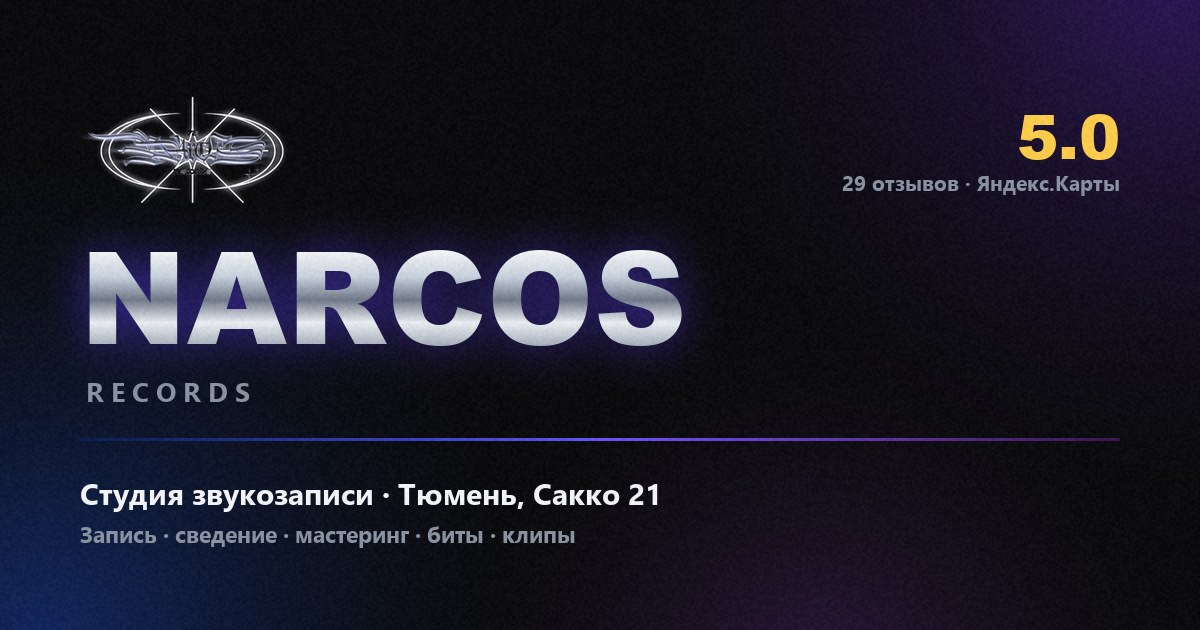
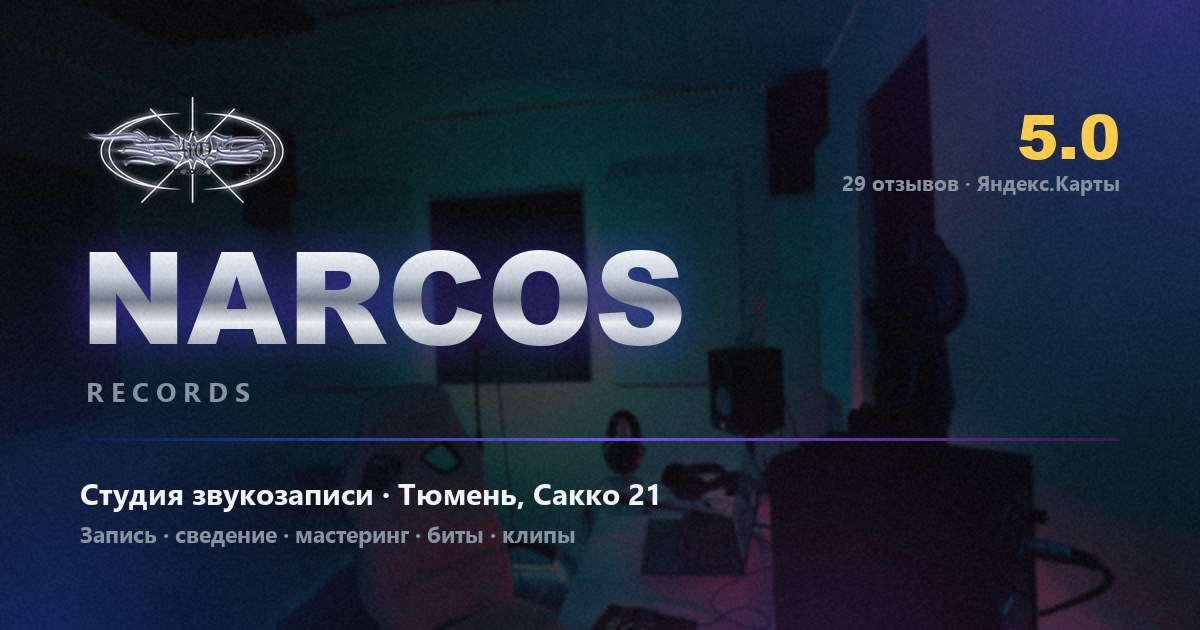
Живые фото студии вместо заглушек
Пять кадров от студии разложены по слотам:
- общий план зала — фон первого экрана
- микрофон Neumann — блок «О студии», вертикаль 4:5
- звуковая карта, наушники и сессия в Ableton — галерея, квадраты

Галерею сократил с шести слотов до трёх по числу фото и перевёл
на квадрат: два кадра исходно 1:1, третий вертикальный — резать
его в 4:3 значило потерять половину. На телефоне галерея в одну
колонку, кадры мелкие в две не читались.

Исходники были 3000–6240 px и по 8–18 МБ. Кроп под соотношение
слота, ресайз, unsharp после уменьшения, сжатие — все пять весят
1 МБ, фон первого экрана 262 КБ.

Обложка превью ссылки теперь на реальном кадре студии.

Фото команды всё ещё ждём, там заглушки.

diff --git a/index.html b/index.html
@@ -137,7 +137,7 @@
 <section class="hero" aria-label="Narcos Records — студия звукозаписи в Тюмени">
   <div class="hero-bg">
     <!-- фон: assets/photos/studio-01.jpg -->
-    <span class="ph ph-hero"><img src="assets/photos/studio-01.jpg" alt="Студия звукозаписи Narcos Records в Тюмени" fetchpriority="high" width="1600" height="1000"></span>
+    <span class="ph ph-hero"><img src="assets/photos/studio-01.jpg" alt="Зал студии звукозаписи Narcos Records с неоновой подсветкой" fetchpriority="high" width="2000" height="1250"></span>
   </div>
   <div class="hero-veil" aria-hidden="true"></div>
   <div class="hero-glow" aria-hidden="true"></div>
@@ -207,7 +207,7 @@
 
       <figure class="figure js-fade">
         <!-- assets/photos/studio-02.jpg -->
-        <span class="ph ph-4x5"><img src="assets/photos/studio-02.jpg" alt="Вокальная кабина студии Narcos Records" loading="lazy" width="800" height="1000"></span>
+        <span class="ph ph-4x5"><img src="assets/photos/studio-02.jpg" alt="Студийный микрофон Neumann на стойке в Narcos Records" loading="lazy" width="1000" height="1250"></span>
         <figcaption>Тюмень, ул. Сакко, 21 · круглосуточно</figcaption>
       </figure>
     </div>
@@ -429,15 +429,12 @@
 
     </div>
 
-    <!-- фото студии: assets/photos/studio-03…08.jpg -->
+    <!-- фото студии, квадраты: assets/photos/studio-03…05.jpg -->
     <h3 class="sub-h js-fade">Студия</h3>
     <div class="gallery">
-      <figure class="gi js-card"><span class="ph ph-4x3"><img src="assets/photos/studio-03.jpg" alt="Пульт и рабочее место звукорежиссёра" loading="lazy" width="800" height="600"></span></figure>
-      <figure class="gi js-card"><span class="ph ph-4x3"><img src="assets/photos/studio-04.jpg" alt="Микрофон в вокальной кабине" loading="lazy" width="800" height="600"></span></figure>
-      <figure class="gi js-card"><span class="ph ph-4x3"><img src="assets/photos/studio-05.jpg" alt="Неоновая подсветка в зале студии" loading="lazy" width="800" height="600"></span></figure>
-      <figure class="gi js-card"><span class="ph ph-4x3"><img src="assets/photos/studio-06.jpg" alt="Запись вокала на сессии" loading="lazy" width="800" height="600"></span></figure>
-      <figure class="gi js-card"><span class="ph ph-4x3"><img src="assets/photos/studio-07.jpg" alt="Зона отдыха студии Narcos Records" loading="lazy" width="800" height="600"></span></figure>
-      <figure class="gi js-card"><span class="ph ph-4x3"><img src="assets/photos/studio-08.jpg" alt="Съёмочная площадка для клипов" loading="lazy" width="800" height="600"></span></figure>
+      <figure class="gi js-card"><span class="ph ph-1x1"><img src="assets/photos/studio-03.jpg" alt="Звуковая карта Focusrite Scarlett на рабочем столе студии" loading="lazy" width="1000" height="1000"></span></figure>
+      <figure class="gi js-card"><span class="ph ph-1x1"><img src="assets/photos/studio-04.jpg" alt="Наушники Beyerdynamic DT 770 Pro на студийном мониторе" loading="lazy" width="1000" height="1000"></span></figure>
+      <figure class="gi js-card"><span class="ph ph-1x1"><img src="assets/photos/studio-05.jpg" alt="Сессия сведения трека в Ableton Live" loading="lazy" width="1000" height="1000"></span></figure>
     </div>
 
     <p class="works-foot js-fade">

diff --git a/styles.css b/styles.css
@@ -149,6 +149,7 @@ ul{ margin:0; padding:0; list-style:none }
 }
 .ph.is-empty img{ display:none }
 
+.ph-1x1{ aspect-ratio:1 }
 .ph-4x3{ aspect-ratio:4/3 }
 .ph-4x5{ aspect-ratio:4/5 }
 .ph-3x4{ aspect-ratio:3/4 }
@@ -629,7 +630,8 @@ h3{ font-size:19px; font-weight:700 }
 
 .audio-grid,
 .video-grid{ display:grid; gap:16px }
-.gallery{ display:grid; grid-template-columns:repeat(2,1fr); gap:12px }
+/* фото квадратные: на телефоне в одну колонку — так их видно, а не разглядываешь */
+.gallery{ display:grid; grid-template-columns:1fr; gap:12px }
 
 .embed{
   position:relative;
@@ -925,7 +927,7 @@ h3{ font-size:19px; font-weight:700 }
   .audio-grid{ grid-template-columns:repeat(2,1fr) }
   .video-grid{ grid-template-columns:repeat(2,1fr) }
   .embed-video.wide{ grid-column:span 2 }
-  .gallery{ grid-template-columns:repeat(3,1fr) }
+  .gallery{ grid-template-columns:repeat(3,1fr); gap:14px }
   .rev-grid{ grid-template-columns:repeat(2,1fr) }
   .rev{ border-right:1px solid var(--hair) }
   .rev:nth-child(2n){ border-right:0 }

diff --git a/assets/README.md b/assets/README.md
@@ -3,16 +3,26 @@
 Пока файла нет — на его месте тёмный блок нужных пропорций с надписью NARCOS.
 Появится файл с таким именем, подхватится сам, в коде ничего менять не надо.
 
-## photos/
+## photos/ — уже на месте
 
-- `studio-01.jpg` — фон первого экрана, горизонталь, лучше 1920 px по ширине
-- `studio-02.jpg` — в блоке «О студии», вертикаль 4:5
-- `studio-03.jpg` … `studio-08.jpg` — галерея, горизонталь 4:3
+- `studio-01.jpg` — фон первого экрана, общий план зала, 2000×1250
+- `studio-02.jpg` — блок «О студии», микрофон, вертикаль 4:5
+- `studio-03…05.jpg` — галерея, квадраты 1000×1000
 
-## team/
+Исходники были на 3000–6000 px и по 8–18 МБ. Кроп, ресайз и сжатие делает
+скрипт: соотношение под слот, затем лёгкий unsharp, чтобы после уменьшения
+не мылило. Фон первого экрана сжат сильнее остальных — он всё равно лежит
+под тёмной вуалью на 42% прозрачности.
+
+Хотите добавить кадров в галерею — кладите квадраты и дублируйте `figure.gi`
+в разделе «Работы». Соотношение задаёт класс `ph-1x1`.
+
+## team/ — ждут фото
 
 - `roman.jpg` — вертикаль 3:4
 - `valeriy.jpg` — вертикаль 3:4
+
+Пока их нет, в разделе «Команда» стоят заглушки.
 
 ## Уже лежит
 
